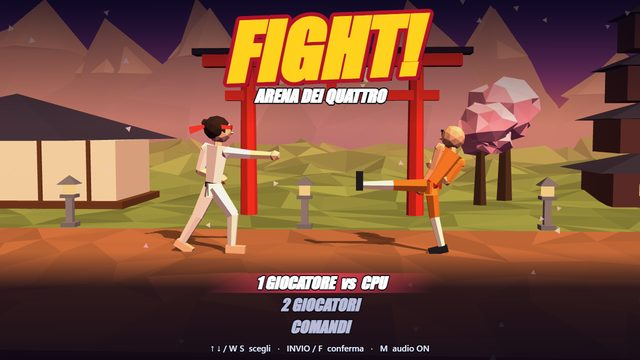
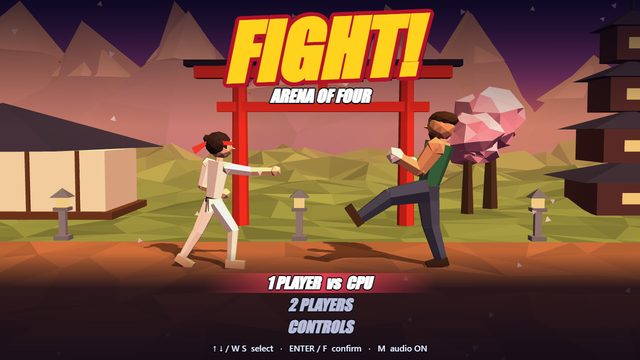
Translate Fight! to English
Menus, character select, controls screen, HUD, banners, special move
names and results are now in English. Adds title/description meta and
updates the home page card, thumbnail and README.

diff --git a/fight/index.html b/fight/index.html
@@ -1,9 +1,9 @@
 <!DOCTYPE html>
-<html lang="it">
+<html lang="en">
 <head>
 <meta charset="utf-8">
 <meta name="viewport" content="width=device-width, initial-scale=1">
-<title>FIGHT! — Arena dei Quattro</title>
+<title>Fight! – 3D fighting game, 1 or 2 players | Browser AI Games</title><meta name="description" content="Free 3D fighting game in your browser: four fighters, special moves and supers. Fight the CPU or a friend on the same keyboard.">
 <style>
   html, body { margin: 0; height: 100%; background: #05050a; overflow: hidden; }
   #wrap { position: absolute; left: 50%; top: 50%; transform: translate(-50%, -50%); }
@@ -13,7 +13,7 @@
 </head>
 <body>
 <div id="wrap"><canvas id="gl"></canvas><canvas id="c"></canvas></div>
-<div id="err">Impossibile avviare il gioco: il browser non supporta WebGL (grafica 3D). Prova con Chrome, Edge o Firefox aggiornati.</div>
+<div id="err">Unable to start the game: your browser doesn't support WebGL (3D graphics). Try an up-to-date Chrome, Edge or Firefox.</div>
 <script>
 /**
  * @license
@@ -201,44 +201,44 @@ const PZ = (f, n) => f.ch.P[n] || POSES[n] || f.ch.P.idle || POSES.idle;
 
 // ============================================================ personaggi
 const CHARS = [
-  { id: 'kaira', name: 'KAIRA', style: 'Equilibrata · Karate', stage: 0,
-    desc: 'Tecnica pulita e completa: pugni diretti, calcio frontale e un potente calcio circolare.',
+  { id: 'kaira', name: 'KAIRA', style: 'Balanced · Karate', stage: 0,
+    desc: 'Clean, complete technique: straight punches, a front kick and a powerful roundhouse kick.',
     hp: 100, walk: 4.3, jump: -19.5, spd: 1, dmg: 1, scale: 1, reach: 1, bulk: 1, bounce: .6, stats: [3, 3, 3, 3],
     col: { skin: '#f0c29a', top: '#f4f1ea', sleeve: '#f4f1ea', fore: '#f0c29a', pants: '#f4f1ea', shin: '#eae6dc', shoe: '#e0ae86', glove: '#f0c29a', belt: '#1a1a22', accent: '#d8342a', hair: '#2b1b17', glow: '#ff7b2e' },
     alt: { top: '#3a4a7a', sleeve: '#3a4a7a', pants: '#3a4a7a', shin: '#34436e', accent: '#ffd21e' },
     P: { idle: P(.08, 0, [.9, .9], [-.2, 1.6], [.55, -.75], [-.35, -.2], 0, .6) },
-    nm: { p: ['jabW', 'kizami'], p2: ['gyakuW', 'gyaku'], k: ['maeW', 'mae'], khb: [15, -138, 124, -72], h: ['sideW', 'side'], hhb: [15, -152, 150, -95] }, hName: 'Yoko-geri', hLabel: 'calcio laterale',
+    nm: { p: ['jabW', 'kizami'], p2: ['gyakuW', 'gyaku'], k: ['maeW', 'mae'], khb: [15, -138, 124, -72], h: ['sideW', 'side'], hhb: [15, -152, 150, -95] }, hName: 'Yoko-geri', hLabel: 'side kick',
     demo: ['idle', 'kizami', 'gyaku', 'idle', 'maeW', 'mae', 'idle', 'sideW', 'side', 'side', 'sideW', 'idle', 'roundW', 'round', 'roundW', 'idle'],
     ai: { nR: 230, dR: 140, supR: 150, combo: 'n', aa: 'd' } },
-  { id: 'jin', name: 'JIN', style: 'Veloce · Kung Fu', stage: 3,
-    desc: 'Rapidissimo ma fragile: raffiche di pugni a catena, calcio laterale e calcio volante.',
+  { id: 'jin', name: 'JIN', style: 'Fast · Kung Fu', stage: 3,
+    desc: 'Lightning fast but fragile: chain-punch flurries, a side kick and a flying kick.',
     hp: 86, walk: 5.9, jump: -20.5, spd: .8, dmg: .85, scale: .97, reach: .97, bulk: .92, bounce: .3, stats: [2, 5, 2, 3],
     col: { skin: '#d9a57c', top: '#e8862a', sleeve: '#e8862a', sleeveF: '#d9a57c', fore: '#d9a57c', pants: '#c96a1e', shin: '#efe9da', shoe: '#1a1a22', glove: '#d9a57c', belt: '#a8231c', accent: '#a8231c', hair: '#1a1410', glow: '#ffb02e' },
     alt: { top: '#5a6a7a', sleeve: '#5a6a7a', pants: '#3f4c5a', belt: '#e8c23a' },
     P: { idle: P(-.02, 0, [1.0, .6], [.5, 1.3], [.35, -.35], [-.15, -.55], 0, .75) },
-    nm: { p: ['jabW', 'wcA'], p2: ['wcA', 'wcB'], k: ['maeW', 'mae'], khb: [15, -138, 122, -72], h: ['sideW', 'side'], hhb: [15, -150, 146, -92], hsu: 9 }, hName: 'Calcio laterale', hLabel: 'calcio laterale',
+    nm: { p: ['jabW', 'wcA'], p2: ['wcA', 'wcB'], k: ['maeW', 'mae'], khb: [15, -138, 122, -72], h: ['sideW', 'side'], hhb: [15, -150, 146, -92], hsu: 9 }, hName: 'Side Kick', hLabel: 'side kick',
     demo: ['idle', 'wcA', 'wcB', 'wcA', 'wcB', 'idle', 'sideW', 'side', 'sideW', 'idle', 'jKick', 'idle'],
     ai: { nR: 110, dR: 330, supR: 120, combo: 'n', aa: 'p' } },
-  { id: 'bruno', name: 'BRUNO', style: 'Potente · Lotta di strada', stage: 2,
-    desc: 'Lento ma devastante: tanta resistenza, ganci pesanti e una carica che assorbe un colpo.',
+  { id: 'bruno', name: 'BRUNO', style: 'Powerful · Street Brawl', stage: 2,
+    desc: 'Slow but devastating: huge stamina, heavy hooks and a charge that shrugs off a hit.',
     hp: 126, walk: 3.3, jump: -17.5, spd: 1.22, dmg: 1.32, scale: 1.14, reach: 1, bulk: 1.38, bounce: .2, stats: [5, 1, 5, 2],
     col: { skin: '#c98d62', top: '#2f6b45', sleeve: '#c98d62', fore: '#c98d62', pants: '#3a3f55', shin: '#3a3f55', shoe: '#3d2616', glove: '#e8e2d4', belt: '#5a3a22', accent: '#ffc531', hair: '#3a2414', glow: '#ffb52e' },
     alt: { top: '#8a2a2a', pants: '#2a2a30', shin: '#2a2a30' },
     P: { idle: P(.26, 0, [.75, 1.5], [.45, 1.7], [.6, -.85], [-.4, -.3], 0, .35) },
-    nm: { p: ['hookW', 'hook'], p2: ['overW', 'over'], k: ['teepW', 'teep'], khb: [15, -128, 120, -62], kkb: 11, h: ['kneeW', 'knee'], hhb: [10, -160, 84, -82], hsu: 8, hstep: 6, hkb: 7, hdmg: 11 }, hName: 'Ginocchiata', hLabel: 'ginocchiata',
+    nm: { p: ['hookW', 'hook'], p2: ['overW', 'over'], k: ['teepW', 'teep'], khb: [15, -128, 120, -62], kkb: 11, h: ['kneeW', 'knee'], hhb: [10, -160, 84, -82], hsu: 8, hstep: 6, hkb: 7, hdmg: 11 }, hName: 'Knee Strike', hLabel: 'knee strike',
     demo: ['idle', 'hookW', 'hook', 'overW', 'over', 'idle', 'teepW', 'teep', 'idle', 'kneeW', 'knee', 'idle', 'slamW', 'slam', 'idle'],
     ai: { nR: 125, dR: 340, supR: 150, combo: 'd', aa: 'p' } },
-  { id: 'lyra', name: 'LYRA', style: 'Allungo · Taekwondo', stage: 1,
-    desc: 'Gambe lunghe e calci spettacolari: calcio alto, calcio ad ascia e calcio girato all\'indietro.',
+  { id: 'lyra', name: 'LYRA', style: 'Reach · Taekwondo', stage: 1,
+    desc: 'Long legs and spectacular kicks: high kick, axe kick and spinning back kick.',
     hp: 92, walk: 4.2, jump: -19.5, spd: 1.02, dmg: .95, scale: 1.02, reach: 1.06, bulk: .9, bounce: 2.2, stats: [3, 3, 2, 5],
     col: { skin: '#f3d2c0', top: '#f2f4f8', sleeve: '#f2f4f8', fore: '#f3d2c0', pants: '#23262e', shin: '#23262e', shoe: '#2a6fd0', glove: '#2a6fd0', belt: '#2a6fd0', accent: '#2a6fd0', hair: '#8a3a22', glow: '#5aa8ff' },
     alt: { top: '#d8342a', sleeve: '#d8342a', shoe: '#f2f4f8', glove: '#f2f4f8', belt: '#f2f4f8' },
     P: { idle: P(.02, 0, [.45, 1.3], [.1, 1.7], [.32, -.42], [-.3, -.35], 0, .95) },
-    nm: { p: ['jabW', 'jab'], p2: ['crossW', 'cross'], k: ['roundW', 'round'], khb: [15, -188, 138, -122], h: ['sideHW', 'sideH'], hhb: [15, -200, 152, -122] }, hName: 'Yeop-chagi', hLabel: 'calcio laterale',
+    nm: { p: ['jabW', 'jab'], p2: ['crossW', 'cross'], k: ['roundW', 'round'], khb: [15, -188, 138, -122], h: ['sideHW', 'sideH'], hhb: [15, -200, 152, -122] }, hName: 'Yeop-chagi', hLabel: 'side kick',
     demo: ['idle', 'roundW', 'round', 'roundW', 'idle', 'axeUp', 'axeDown', 'idle', 'jab', 'cross', 'idle', 'sideHW', 'sideH', 'sideH', 'idle'],
     ai: { nR: 140, dR: 215, supR: 200, combo: 'd', aa: 'k' } }
 ];
-const STAT_NAMES = ['Potenza', 'Velocità', 'Resistenza', 'Allungo'];
+const STAT_NAMES = ['Power', 'Speed', 'Stamina', 'Reach'];
 
 function normals(ch) {
   const r = ch.reach, d = ch.dmg, n = ch.nm, f = x => Math.max(2, Math.round(x * ch.spd));
@@ -277,26 +277,26 @@ const SPECIALS = {
       on(f, t) { if (inAct(this, t)) f.vx = f.facing * 4.2; if (t >= this.su && (t - this.su) % 6 === 0 && t < this.su + this.ac) sfx('whoosh'); } }
   },
   jin: {
-    n: { name: 'Pugni a Catena', su: 5, ac: 18, rc: 12, multi: 5, hb: [10, -160, 100, -100], dmg: 3.2, hs: 14, bs: 9, kb: 1.5, chip: true, stop: 3,
+    n: { name: 'Chain Punches', su: 5, ac: 18, rc: 12, multi: 5, hb: [10, -160, 100, -100], dmg: 3.2, hs: 14, bs: 9, kb: 1.5, chip: true, stop: 3,
       on(f, t) { if (inAct(this, t)) { f.vx = f.facing * 3; if ((t - this.su) % 5 === 0) sfx('whoosh'); } } },
-    d: { name: 'Calcio Volante', su: 7, ac: 16, rc: 12, wind: 'crouch', pose: 'jKick', rec: 'jump', hb: [5, -112, 116, -18], dmg: 11, kd: true, launch: -9, kb: 9, rush: 260, chip: true,
+    d: { name: 'Flying Kick', su: 7, ac: 16, rc: 12, wind: 'crouch', pose: 'jKick', rec: 'jump', hb: [5, -112, 116, -18], dmg: 11, kd: true, launch: -9, kb: 9, rush: 260, chip: true,
       on(f, t) { if (t === this.su) { f.vy = -10.5; f.vx = f.facing * 13; dust(f.x, 5); sfx('jump'); } } },
-    sup: { name: 'CENTO PUGNI', sup: true, su: 6, ac: 38, rc: 22, multi: 4, hb: [10, -165, 104, -90], dmg: 2.6, hs: 14, bs: 9, kb: 1.5, chip: true, stop: 3,
+    sup: { name: 'HUNDRED FISTS', sup: true, su: 6, ac: 38, rc: 22, multi: 4, hb: [10, -165, 104, -90], dmg: 2.6, hs: 14, bs: 9, kb: 1.5, chip: true, stop: 3,
       fin: { t: 7, dmg: 12, kd: true, launch: -10, kb: 15, stop: 16, chip: true, sup: true },
       on(f, t) { if (inAct(this, t)) { f.vx = f.facing * 3.4; if ((t - this.su) % 4 === 0) sfx('whoosh'); } } }
   },
   bruno: {
-    n: { name: 'Martello', su: 16, ac: 4, rc: 24, wind: 'slamW', pose: 'slam', rec: 'slam', hb: [10, -195, 106, 0], dmg: 15, kd: true, launch: -6, kb: 4, chip: true,
+    n: { name: 'Hammer', su: 16, ac: 4, rc: 24, wind: 'slamW', pose: 'slam', rec: 'slam', hb: [10, -195, 106, 0], dmg: 15, kd: true, launch: -6, kb: 4, chip: true,
       on(f, t) { if (t === this.su + 2) { game.shake = Math.max(game.shake, 7); dust(f.x + f.facing * 70, 8); sfx('quake'); } } },
-    d: { name: 'Carica di Spalla', su: 11, ac: 22, rc: 18, wind: 'crouch', pose: 'dash', rec: 'dash', hb: [0, -150, 78, -30], dmg: 15, kd: true, launch: -10, kb: 10, armor: 1, rush: 270, chip: true,
+    d: { name: 'Shoulder Charge', su: 11, ac: 22, rc: 18, wind: 'crouch', pose: 'dash', rec: 'dash', hb: [0, -150, 78, -30], dmg: 15, kd: true, launch: -10, kb: 10, armor: 1, rush: 270, chip: true,
       on(f, t) { if (inAct(this, t)) { f.vx = f.facing * 11.5; if (t % 3 === 0) dust(f.x - f.facing * 30, 2); } } },
-    sup: { name: 'DEMOLITORE', sup: true, su: 14, ac: 6, rc: 34, wind: 'upperW', pose: 'upper', rec: 'upper', hb: [5, -215, 112, -40], dmg: 34, kd: true, launch: -21, kb: 5, armor: 2, stop: 20, chip: true,
+    sup: { name: 'WRECKING BALL', sup: true, su: 14, ac: 6, rc: 34, wind: 'upperW', pose: 'upper', rec: 'upper', hb: [5, -215, 112, -40], dmg: 34, kd: true, launch: -21, kb: 5, armor: 2, stop: 20, chip: true,
       on(f, t) { if (t >= 5 && t < this.su) f.vx = f.facing * 9; if (t === this.su) { f.vy = -7; dust(f.x, 8); } } }
   },
   lyra: {
-    n: { name: 'Calcio ad Ascia', su: 14, ac: 5, rc: 20, wind: 'axeUp', pose: 'axeDown', rec: 'axeDown', hb: [20, -205, 126, -30], dmg: 12, kd: true, launch: -5, kb: 4, chip: true,
+    n: { name: 'Axe Kick', su: 14, ac: 5, rc: 20, wind: 'axeUp', pose: 'axeDown', rec: 'axeDown', hb: [20, -205, 126, -30], dmg: 12, kd: true, launch: -5, kb: 4, chip: true,
       on(f, t) { if (t === this.su + 3) dust(f.x + f.facing * 80, 5); } },
-    d: { name: 'Calcio Girato', su: 12, ac: 5, rc: 20, wind: 'spinW', pose: 'backKick', rec: 'spinEnd', hb: [10, -142, 140, -78], dmg: 13, kd: true, launch: -8, kb: 13, rush: 90, chip: true,
+    d: { name: 'Spinning Back Kick', su: 12, ac: 5, rc: 20, wind: 'spinW', pose: 'backKick', rec: 'spinEnd', hb: [10, -142, 140, -78], dmg: 13, kd: true, launch: -8, kb: 13, rush: 90, chip: true,
       on(f, t) { if (t >= 3 && t < this.su) f.vx = f.facing * 6; } },
     sup: { name: 'TORNADO', sup: true, su: 8, ac: 42, rc: 24, multi: 14, wind: 'roundW', pose: 'tornado', rec: 'idle', hb: [10, -188, 136, -80], dmg: 9, hs: 20, bs: 12, kb: 3, chip: true, stop: 6,
       fin: { t: 14, dmg: 12, kd: true, launch: -12, kb: 12, stop: 16, chip: true, sup: true },
@@ -315,10 +315,10 @@ for (const ch of CHARS) {
 }
 
 const DIFFS = [
-  { name: 'FACILE', desc: 'La CPU reagisce lentamente, para poco e usa poche tecniche speciali.', col: '#6fe07a', react: 26, block: .12, aggro: .45, special: .25, combo: .05, antiAir: .1, sup: .25 },
-  { name: 'NORMALE', desc: 'Un avversario onesto: para, contrattacca e usa le tecniche speciali.', col: '#ffd84a', react: 15, block: .4, aggro: .7, special: .5, combo: .35, antiAir: .4, sup: .6 },
-  { name: 'DIFFICILE', desc: 'Riflessi rapidi, combinazioni frequenti e buona difesa.', col: '#ff8a3a', react: 8, block: .66, aggro: .85, special: .7, combo: .7, antiAir: .7, sup: .85 },
-  { name: 'INCUBO', desc: 'Reazioni quasi istantanee. Punisce ogni errore. Buona fortuna.', col: '#ff3b5c', react: 4, block: .88, aggro: .95, special: .85, combo: .95, antiAir: .92, sup: 1 }
+  { name: 'EASY', desc: 'The CPU reacts slowly, rarely blocks and uses few special moves.', col: '#6fe07a', react: 26, block: .12, aggro: .45, special: .25, combo: .05, antiAir: .1, sup: .25 },
+  { name: 'NORMAL', desc: 'A fair opponent: blocks, counters and uses special moves.', col: '#ffd84a', react: 15, block: .4, aggro: .7, special: .5, combo: .35, antiAir: .4, sup: .6 },
+  { name: 'HARD', desc: 'Quick reflexes, frequent combos and solid defence.', col: '#ff8a3a', react: 8, block: .66, aggro: .85, special: .7, combo: .7, antiAir: .7, sup: .85 },
+  { name: 'NIGHTMARE', desc: 'Near-instant reactions. Punishes every mistake. Good luck.', col: '#ff3b5c', react: 4, block: .88, aggro: .95, special: .85, combo: .95, antiAir: .92, sup: 1 }
 ];
 
 // ============================================================ stato di gioco
@@ -729,19 +729,19 @@ function fightTick() {
     } else if (g.timer <= 0) {
       const r0 = a.hp / a.ch.hp, r1 = b.hp / b.ch.hp;
       g.phase = 'ko'; g.pt = 0; g.winner = Math.abs(r0 - r1) < .001 ? -1 : r0 > r1 ? 0 : 1;
-      banner('TEMPO!', '', '#ffd84a'); sfx('bell');
+      banner('TIME!', '', '#ffd84a'); sfx('bell');
     }
   } else if (g.phase === 'intro') {
-    if (g.pt === 1) banner(g.wins[0] === 1 && g.wins[1] === 1 ? 'ROUND FINALE' : 'ROUND ' + g.round, '', '#ffd84a');
-    if (g.pt === 68) { banner('COMBATTI!', '', '#ffffff'); sfx('bell'); }
+    if (g.pt === 1) banner(g.wins[0] === 1 && g.wins[1] === 1 ? 'FINAL ROUND' : 'ROUND ' + g.round, '', '#ffd84a');
+    if (g.pt === 68) { banner('FIGHT!', '', '#ffffff'); sfx('bell'); }
     if (g.pt >= 86) g.phase = 'fight';
   } else if (g.phase === 'ko') {
     if (g.pt === 80) {
-      if (g.winner < 0) banner('PAREGGIO', 'Il round si ripete', '#cfd3ff');
+      if (g.winner < 0) banner('DRAW', 'The round will be replayed', '#cfd3ff');
       else {
         const w = F[g.winner]; g.wins[g.winner]++;
         if (w.state === 'idle' || w.state === 'crouch') setState(w, 'win');
-        banner(w.ch.name + ' VINCE', w.hp >= w.ch.hp ? 'PERFECT!' : '', w.ch.col.glow); sfx('ok');
+        banner(w.ch.name + ' WINS', w.hp >= w.ch.hp ? 'PERFECT!' : '', w.ch.col.glow); sfx('ok');
       }
     }
     if (g.pt >= 205) {
@@ -953,7 +953,7 @@ function stageKit(g, seed) {
 }
 const X0 = -1100, X1 = WORLD + 1100;
 const STAGES = [
-  { name: 'Dojo del Tramonto', amb: 'petals',
+  { name: 'Sunset Dojo', amb: 'petals',
     env: { sky: ['#2a1650', '#8a3a70', '#f0704a', '#ffc878'], fog: ['#e08a6a', 1500, 5200], hemi: ['#ffc8a0', '#5a3050', .8], sun: ['#ffd8b0', 1.0, [500, 700, 800]] },
     build(g) {
       const K = stageKit(g, 11), R = K.R;
@@ -981,7 +981,7 @@ const STAGES = [
       for (let i = 0; i < 9; i++) K.peak(X0 - 900 + i * 620 + R() * 200, -3300 - R() * 600, 600 + R() * 350, 600 + R() * 500, i % 2 ? '#6a4a8a' : '#5a3f7a', '#f6dfe6');
       K.disc(330, '#ffe6ac', 820, 420, -4600, 12);
     } },
-  { name: 'Tetti della Città', amb: 'rain',
+  { name: 'City Rooftops', amb: 'rain',
     env: { sky: ['#05061a', '#141040', '#3a1a5c', '#7a2a70'], fog: ['#2a1a54', 1400, 5200], hemi: ['#a8b4f0', '#3a3058', 1.0], sun: ['#dfe6ff', .95, [-500, 800, 700]] },
     build(g) {
       const K = stageKit(g, 23), R = K.R;
@@ -1006,7 +1006,7 @@ const STAGES = [
       K.sign('HOTEL', '#ff4fa8', 300, 330, -540, 300, 110); K.sign('BAR', '#4fe8ff', 1350, 250, -520, 200, 90); K.sign('道場', '#ffe14a', 2050, 420, -700, 260, 120);
       K.disc(150, '#e8f4ff', 1240, 760, -3600, 14); K.disc(34, '#bcd4e8', 1200, 790, -3590, 8); K.disc(22, '#bcd4e8', 1300, 720, -3590, 8);
     } },
-  { name: 'Porto al Crepuscolo', amb: null,
+  { name: 'Twilight Harbour', amb: null,
     env: { sky: ['#1a2a50', '#3a5a80', '#e08a60', '#ffd090'], fog: ['#d09a78', 1700, 6000], hemi: ['#ffd0a8', '#40506a', .85], sun: ['#ffe0b8', 1.0, [600, 650, 800]] },
     build(g) {
       const K = stageKit(g, 37), R = K.R;
@@ -1032,7 +1032,7 @@ const STAGES = [
       for (let i = 0; i < 7; i++) K.peak(X0 - 800 + i * 700 + R() * 300, -4600 - R() * 600, 700 + R() * 400, 380 + R() * 300, '#3a4a6a');
       K.disc(260, '#ffcf90', 1500, 260, -5600, 12);
     } },
-  { name: 'Tempio tra le Nevi', amb: 'snow',
+  { name: 'Snowbound Temple', amb: 'snow',
     env: { sky: ['#4a78bc', '#8ab0dc', '#d8e6f6', '#ffffff'], fog: ['#dfe8f5', 1500, 5200], hemi: ['#eef4ff', '#7a8aa8', .68], sun: ['#fff4e0', .62, [-450, 800, 700]] },
     build(g) {
       const K = stageKit(g, 53), R = K.R;
@@ -1198,7 +1198,7 @@ function hpBar(f, right) {
   ctx.fillStyle = 'rgba(255,255,255,.25)'; ctx.fillRect(x0, y + 2, w, 5);
   ctx.strokeStyle = '#f2f2ff'; ctx.lineWidth = 2.5; ctx.strokeRect(x0 - 1, y - 1, w + 2, h + 2);
   ctx.restore();
-  const label = f.ch.name + (right && game.mode === 1 ? '  · CPU ' + DIFFS[game.diff].name : right ? '  · G2' : '  · G1');
+  const label = f.ch.name + (right && game.mode === 1 ? '  · CPU ' + DIFFS[game.diff].name : right ? '  · P2' : '  · P1');
   txt(label, right ? 1212 : 68, 88, 26, '#fff', right ? 'right' : 'left', { stroke: '#0a0a14' });
   for (let i = 0; i < 2; i++) {
     const px = right ? 716 + i * 30 : 564 - i * 30, on = game.wins[f.idx] > i;
@@ -1209,11 +1209,11 @@ function hpBar(f, right) {
   const mr = f.meter / 100, col = f.ch.col.glow;
   ctx.fillStyle = full && (game.T >> 2) % 2 ? '#ffffff' : col; ctx.fillRect(right ? mx + mw * (1 - mr) : mx, my, mw * mr, 14);
   ctx.strokeStyle = '#f2f2ff'; ctx.lineWidth = 2; ctx.strokeRect(mx - 1, my - 1, mw + 2, 16);
-  txt(full ? 'SUPER PRONTA!' + (right ? (game.mode === 2 ? '  J + K + L' : '') : '  F + G + H') : 'SUPER', right ? mx + mw : mx, my - 16, 17, full ? '#fff' : '#c8cbe8', right ? 'right' : 'left', { stroke: '#0a0a14' });
+  txt(full ? 'SUPER READY!' + (right ? (game.mode === 2 ? '  J + K + L' : '') : '  F + G + H') : 'SUPER', right ? mx + mw : mx, my - 16, 17, full ? '#fff' : '#c8cbe8', right ? 'right' : 'left', { stroke: '#0a0a14' });
   if (f.comboT > 0 && f.combo > 1) {
     const k = 1 + Math.max(0, (f.comboT - 75) / 10) * .5, cx = right ? 1130 : 150;
     ctx.save(); ctx.translate(cx, 190); ctx.scale(k, k); ctx.globalAlpha = Math.min(1, f.comboT / 15);
-    txt(String(f.combo), 0, 0, 78, '#ffd21e', 'center', { stroke: '#0a0a14' }); txt('COLPI!', 0, 50, 28, '#fff', 'center', { stroke: '#0a0a14' });
+    txt(String(f.combo), 0, 0, 78, '#ffd21e', 'center', { stroke: '#0a0a14' }); txt('HITS!', 0, 50, 28, '#fff', 'center', { stroke: '#0a0a14' });
     ctx.restore();
   }
 }
@@ -1225,13 +1225,13 @@ function drawHUD() {
   ctx.strokeStyle = '#f2f2ff'; ctx.lineWidth = 2.5; ctx.stroke();
   txt(String(sec).padStart(2, '0'), 638, 60, 54, sec <= 10 ? '#ff4a3a' : '#fff', 'center');
   if (g.phase === 'intro' && g.round === 1 && g.wins[0] + g.wins[1] === 0) {
-    const t = g.mode === 1 ? 'A / D muovi  ·  W salta  ·  S giù  ·  tieni INDIETRO per parare' : 'G1 si muove con WASD  ·  G2 con le frecce  ·  tieni INDIETRO per parare';
+    const t = g.mode === 1 ? 'A / D move  ·  W jump  ·  S crouch  ·  hold BACK to block' : 'P1 moves with WASD  ·  P2 with the arrow keys  ·  hold BACK to block';
     txt(t, W / 2, 598, 20, '#fff', 'center', { body: true, stroke: '#0a0a14', sw: 4 });
   }
   const lg = { body: true, stroke: '#0a0a14', sw: 4 };
-  const keyLine = (f, a, b, c) => `${a} pugno · ${b} calcio · ${c} ${f.ch.hLabel}   ·   ${a}+${b} speciale 1 · ${b}+${c} speciale 2 · ${a}+${b}+${c} super`;
+  const keyLine = (f, a, b, c) => `${a} punch · ${b} kick · ${c} ${f.ch.hLabel}   ·   ${a}+${b} special 1 · ${b}+${c} special 2 · ${a}+${b}+${c} super`;
   if (g.mode === 1) txt(keyLine(g.f[0], 'F', 'G', 'H'), W / 2, 648, 15, '#fff', 'center', lg);
-  else { txt('G1   ' + keyLine(g.f[0], 'F', 'G', 'H'), W / 2, 630, 14, '#ffd21e', 'center', lg); txt('G2   ' + keyLine(g.f[1], 'J', 'K', 'L'), W / 2, 650, 14, '#3fe8ff', 'center', lg); }
+  else { txt('P1   ' + keyLine(g.f[0], 'F', 'G', 'H'), W / 2, 630, 14, '#ffd21e', 'center', lg); txt('P2   ' + keyLine(g.f[1], 'J', 'K', 'L'), W / 2, 650, 14, '#3fe8ff', 'center', lg); }
   if (g.banner) {
     const b = g.banner, k = 1 + Math.max(0, 1 - b.t / 9) * 1.6, a = Math.min(1, (b.max - b.t) / 14);
     ctx.save(); ctx.translate(W / 2, 300); ctx.scale(k, k); ctx.globalAlpha = a;
@@ -1256,8 +1256,8 @@ function renderFight() {
   drawHUD();
   if (g.paused) {
     dim(.72);
-    txt('PAUSA', W / 2, 250, 110, '#fff', 'center', { stroke: '#0a0a14' });
-    ['RIPRENDI', 'MENU PRINCIPALE'].forEach((s, i) => menuItem(s, W / 2, 380 + i * 70, g.pmenu === i, 44));
+    txt('PAUSED', W / 2, 250, 110, '#fff', 'center', { stroke: '#0a0a14' });
+    ['RESUME', 'MAIN MENU'].forEach((s, i) => menuItem(s, W / 2, 380 + i * 70, g.pmenu === i, 44));
   }
 }
 
@@ -1273,7 +1273,7 @@ function menuItem(s, x, y, on, size) {
 function demoPose(f, seq, period, off) {
   poseTo(f, PZ(f, seq[((game.T + (off || 0)) / period | 0) % seq.length]), .25);
 }
-const TITLE_ITEMS = ['1 GIOCATORE  vs  CPU', '2 GIOCATORI', 'COMANDI'];
+const TITLE_ITEMS = ['1 PLAYER  vs  CPU', '2 PLAYERS', 'CONTROLS'];
 function titleDemo() {
   const g = game;
   if (!g.titleF) { const a = Math.random() * 4 | 0; g.titleF = [mkFighter(a, 0, WORLD / 2 - 150), mkFighter((a + 1 + (Math.random() * 3 | 0)) % 4, 1, WORLD / 2 + 150)]; }
@@ -1299,9 +1299,9 @@ function titleRender() {
   txt('FIGHT!', 7, 7, 150, '#1a0520', 'center');
   txt('FIGHT!', 0, 0, 150, '#ffd21e', 'center', { stroke: '#b3122a', sw: 16 });
   ctx.restore();
-  txt('ARENA DEI QUATTRO', W / 2, 192, 34, '#fff', 'center', { stroke: '#0a0a14' });
+  txt('ARENA OF FOUR', W / 2, 192, 34, '#fff', 'center', { stroke: '#0a0a14' });
   TITLE_ITEMS.forEach((s, i) => menuItem(s, W / 2, 566 + i * 44, g.menu === i, 32));
-  txt('↑ ↓ / W S  scegli   ·   INVIO / F  conferma   ·   M  audio ' + (mute ? 'OFF' : 'ON'), W / 2, 698, 17, '#e8e8ff', 'center', { body: true, stroke: '#0a0a14', sw: 4 });
+  txt('↑ ↓ / W S  select   ·   ENTER / F  confirm   ·   M  audio ' + (mute ? 'OFF' : 'ON'), W / 2, 698, 17, '#e8e8ff', 'center', { body: true, stroke: '#0a0a14', sw: 4 });
 }
 
 function diffTick() {
@@ -1314,21 +1314,21 @@ function diffTick() {
 function diffRender() {
   const g = game;
   dim(.72);
-  txt('DIFFICOLTÀ', W / 2, 110, 90, '#fff', 'center', { stroke: '#0a0a14' });
+  txt('DIFFICULTY', W / 2, 110, 90, '#fff', 'center', { stroke: '#0a0a14' });
   DIFFS.forEach((d, i) => {
     const y = 240 + i * 82, on = g.diff === i;
     menuItem(d.name, W / 2, y, on, 52);
     for (let k = 0; k <= i; k++) { ctx.fillStyle = on ? d.col : '#4a4d6a'; ctx.beginPath(); ctx.arc(W / 2 + 250 + k * 26, y, 9, 0, TAU); ctx.fill(); }
   });
   txt(DIFFS[g.diff].desc, W / 2, 590, 24, DIFFS[g.diff].col, 'center', { body: true, stroke: '#0a0a14', sw: 5 });
-  txt('INVIO / F  conferma   ·   ESC  indietro', W / 2, 690, 18, '#c8cbe8', 'center', { body: true, stroke: '#0a0a14', sw: 4 });
+  txt('ENTER / F  confirm   ·   ESC  back', W / 2, 690, 18, '#c8cbe8', 'center', { body: true, stroke: '#0a0a14', sw: 4 });
 }
 
 function helpTick() { titleDemo(); if (navBack() || navOK()) { game.screen = 'title'; sfx('back'); } }
 function helpRender() {
   dim(.82);
-  txt('COMANDI', W / 2, 70, 70, '#fff', 'center', { stroke: '#0a0a14' });
-  const rows = [['', 'GIOCATORE 1', 'GIOCATORE 2'], ['Muovi', 'A / D', '← / →'], ['Salta', 'W', '↑'], ['Accovacciati', 'S', '↓'], ['Pugno', 'F', 'J'], ['Calcio', 'G', 'K'], ['Calcio laterale *', 'H', 'L'], ['Speciale 1', 'F + G', 'J + K'], ['Speciale 2', 'G + H', 'K + L'], ['Super (a barra piena)', 'F + G + H', 'J + K + L']];
+  txt('CONTROLS', W / 2, 70, 70, '#fff', 'center', { stroke: '#0a0a14' });
+  const rows = [['', 'PLAYER 1', 'PLAYER 2'], ['Move', 'A / D', '← / →'], ['Jump', 'W', '↑'], ['Crouch', 'S', '↓'], ['Punch', 'F', 'J'], ['Kick', 'G', 'K'], ['Side kick *', 'H', 'L'], ['Special 1', 'F + G', 'J + K'], ['Special 2', 'G + H', 'K + L'], ['Super (full meter)', 'F + G + H', 'J + K + L']];
   rows.forEach((r, i) => {
     const y = 146 + i * 38, head = i === 0;
     if (!head) { ctx.fillStyle = i % 2 ? 'rgba(255,255,255,.06)' : 'rgba(255,255,255,.02)'; ctx.fillRect(250, y - 18, 780, 36); }
@@ -1337,14 +1337,14 @@ function helpRender() {
     txt(r[2], 900, y, head ? 28 : 26, head ? '#3fe8ff' : '#fff', 'center', head ? { stroke: '#0a0a14' } : { body: true });
   });
   const tips = [
-    'PARATA — tieni premuto INDIETRO (lontano dall\'avversario) mentre vieni colpito.',
-    'TASTI INSIEME — premili nello stesso momento (va bene anche uno subito dopo l\'altro).   * Bruno: ginocchiata.',
-    'COMBINAZIONE — pugno due volte: diretto avanzato + diretto arretrato. Poi puoi chiudere con una speciale.',
-    'SUPER — funziona solo quando la barra in basso è piena: si carica colpendo e subendo.',
-    'In 1 giocatore funzionano entrambi i set di tasti.   INVIO / ESC = pausa   ·   M = audio.'
+    'BLOCK — hold BACK (away from your opponent) while you are being attacked.',
+    'BUTTON COMBOS — press them together (one right after the other works too).   * Bruno: knee strike.',
+    'COMBO — punch twice: lead jab + rear straight. Then finish with a special.',
+    'SUPER — only works when the bottom meter is full: it charges as you hit and get hit.',
+    'In 1-player mode both key sets work.   ENTER / ESC = pause   ·   M = audio.'
   ];
   tips.forEach((t, i) => txt(t, W / 2, 518 + i * 32, 19, i === 3 ? '#ffd21e' : '#e8e8ff', 'center', { body: true, stroke: '#0a0a14', sw: 4 }));
-  txt('ESC / INVIO  indietro', W / 2, 692, 18, '#c8cbe8', 'center', { body: true, stroke: '#0a0a14', sw: 4 });
+  txt('ESC / ENTER  back', W / 2, 692, 18, '#c8cbe8', 'center', { body: true, stroke: '#0a0a14', sw: 4 });
 }
 
 // ---- selezione personaggi
@@ -1387,8 +1387,8 @@ function selectRender() {
   const g = game, s = g.sel, T = g.T;
   const gr = ctx.createLinearGradient(0, 0, W, 0); gr.addColorStop(0, 'rgba(6,4,20,.88)'); gr.addColorStop(.3, 'rgba(6,4,20,.25)'); gr.addColorStop(.7, 'rgba(6,4,20,.25)'); gr.addColorStop(1, 'rgba(6,4,20,.88)');
   ctx.fillStyle = gr; ctx.fillRect(0, 0, W, H); ctx.fillStyle = 'rgba(6,4,20,.6)'; ctx.fillRect(0, 520, W, 200); ctx.fillRect(0, 0, W, 86);
-  txt('SCEGLI IL TUO LOTTATORE', W / 2, 46, 50, '#fff', 'center', { stroke: '#0a0a14' });
-  const cols = ['#ffd21e', '#3fe8ff'], labels = g.mode === 1 ? ['GIOCATORE', 'CPU · ' + DIFFS[g.diff].name] : ['GIOCATORE 1', 'GIOCATORE 2'];
+  txt('CHOOSE YOUR FIGHTER', W / 2, 46, 50, '#fff', 'center', { stroke: '#0a0a14' });
+  const cols = ['#ffd21e', '#3fe8ff'], labels = g.mode === 1 ? ['PLAYER', 'CPU · ' + DIFFS[g.diff].name] : ['PLAYER 1', 'PLAYER 2'];
   for (let i = 0; i < 2; i++) {
     const active = g.mode === 2 || (i === 0 ? true : s.done[0]);
     const ci = s.cur[i], cx = i ? 870 : 410, al = i ? 'right' : 'left', tx = i ? 1240 : 40;
@@ -1396,7 +1396,7 @@ function selectRender() {
     if (!active) { txt('?', cx, 330, 220, '#5a5d7a', 'center', { stroke: '#0a0a14' }); continue; }
     if (ci >= CHARS.length) {
       txt('?', cx, 330, 240, cols[i], 'center', { stroke: '#0a0a14' });
-      txt('CASUALE', tx, 160, 60, '#fff', al, { stroke: '#0a0a14' }); continue;
+      txt('RANDOM', tx, 160, 60, '#fff', al, { stroke: '#0a0a14' }); continue;
     }
     const ch = CHARS[ci];
     txt(ch.name, tx, 162, 68, '#fff', al, { stroke: '#0a0a14' });
@@ -1410,7 +1410,7 @@ function selectRender() {
     const kk = i === 0 ? ['H', 'F + G', 'G + H', 'F + G + H'] : g.mode === 2 ? ['L', 'J + K', 'K + L', 'J + K + L'] : null;
     [ch.hName, ch.sp.n.name, ch.sp.d.name, ch.sp.sup.name + ' (super)'].forEach((m, k) =>
       txt((kk ? kk[k] + '  —  ' : '') + m, sx, 386 + k * 26, 16, k === 3 ? '#ffd21e' : '#fff', 'left', { body: true, stroke: '#0a0a14', sw: 3 }));
-    if (s.done[i]) txt('PRONTO!', cx, 150, 54, cols[i], 'center', { stroke: '#0a0a14' });
+    if (s.done[i]) txt('READY!', cx, 150, 54, cols[i], 'center', { stroke: '#0a0a14' });
   }
   const n = CHARS.length + 1, tw = 124, gap = 14, x0 = W / 2 - (n * tw + (n - 1) * gap) / 2, ty = 548;
   for (let k = 0; k < n; k++) {
@@ -1418,17 +1418,17 @@ function selectRender() {
     if (ch && PORT[k]) ctx.drawImage(PORT[k], x, ty, tw, 124);
     else { ctx.fillStyle = '#2a2c44'; ctx.fillRect(x, ty, tw, 124); txt('?', x + tw / 2, ty + 56, 90, '#c8cbe8', 'center', { stroke: '#0a0a14' }); }
     ctx.lineWidth = 3; ctx.strokeStyle = '#0a0a14'; ctx.strokeRect(x, ty, tw, 124);
-    txt(ch ? ch.name : 'CASUALE', x + tw / 2, ty + 108, 22, '#fff', 'center', { stroke: '#0a0a14' });
+    txt(ch ? ch.name : 'RANDOM', x + tw / 2, ty + 108, 22, '#fff', 'center', { stroke: '#0a0a14' });
     for (let i = 0; i < 2; i++) {
       const active = g.mode === 2 || i === 0 || s.done[0];
       if (!active || s.cur[i] !== k) continue;
       const pulse = s.done[i] ? 0 : sin(T * .25) * 2, o = 5 + i * 5 + pulse;
       ctx.lineWidth = 4; ctx.strokeStyle = cols[i]; ctx.strokeRect(x - o, ty - o, tw + o * 2, 124 + o * 2);
-      txt(g.mode === 1 ? (i ? 'CPU' : 'G1') : 'G' + (i + 1), x + (i ? tw - 20 : 20), ty - 14 - o, 20, cols[i], 'center', { stroke: '#0a0a14' });
+      txt(g.mode === 1 ? (i ? 'CPU' : 'P1') : 'P' + (i + 1), x + (i ? tw - 20 : 20), ty - 14 - o, 20, cols[i], 'center', { stroke: '#0a0a14' });
     }
   }
-  const hint = g.mode === 1 ? (s.done[0] ? 'Scegli l\'avversario:  ← →  ·  INVIO / F conferma  ·  ESC indietro' : '← →  /  A D  scegli  ·  INVIO / F  conferma  ·  ESC  indietro')
-    : 'G1:  A / D  +  F          G2:  ← / →  +  J          ESC  indietro';
+  const hint = g.mode === 1 ? (s.done[0] ? 'Choose your opponent:  ← →  ·  ENTER / F confirm  ·  ESC back' : '← →  /  A D  select  ·  ENTER / F  confirm  ·  ESC  back')
+    : 'P1:  A / D  +  F          P2:  ← / →  +  J          ESC  back';
   txt(hint, W / 2, 702, 17, '#e8e8ff', 'center', { body: true, stroke: '#0a0a14', sw: 4 });
 }
 
@@ -1451,7 +1451,7 @@ function vsRender() {
 }
 
 // ---- risultato
-const RES_ITEMS = ['RIVINCITA', 'SELEZIONE PERSONAGGI', 'MENU PRINCIPALE'];
+const RES_ITEMS = ['REMATCH', 'CHARACTER SELECT', 'MAIN MENU'];
 function resultTick() {
   const g = game; g.resT++;
   for (const f of g.f) blendPose(f);
@@ -1470,7 +1470,7 @@ function resultRender() {
   drawAmbient(STAGES[g.stage].amb, g.T);
   const gr = ctx.createLinearGradient(0, 0, 0, H); gr.addColorStop(0, 'rgba(6,4,20,.8)'); gr.addColorStop(.4, 'rgba(6,4,20,.1)'); gr.addColorStop(.62, 'rgba(6,4,20,.3)'); gr.addColorStop(1, 'rgba(6,4,20,.85)');
   ctx.fillStyle = gr; ctx.fillRect(0, 0, W, H);
-  const youWin = g.mode === 1 ? (g.matchWinner === 0 ? 'HAI VINTO!' : 'HAI PERSO…') : 'GIOCATORE ' + (g.matchWinner + 1) + ' VINCE!';
+  const youWin = g.mode === 1 ? (g.matchWinner === 0 ? 'YOU WIN!' : 'YOU LOSE…') : 'PLAYER ' + (g.matchWinner + 1) + ' WINS!';
   txt(w.ch.name, W / 2, 86, 110, '#fff', 'center', { stroke: '#0a0a14', sw: 12 });
   txt(youWin + '   ' + g.wins[0] + ' — ' + g.wins[1], W / 2, 168, 44, g.mode === 1 && g.matchWinner === 1 ? '#ff5a6a' : '#ffd21e', 'center', { stroke: '#0a0a14' });
   RES_ITEMS.forEach((s, i) => menuItem(s, W / 2, 548 + i * 52, g.menu === i, 36));

diff --git a/index.html b/index.html
@@ -37,8 +37,8 @@ footer{text-align:center;color:#6c7a86;font-size:12px;padding:0 24px 40px}
   <div class="body"><div class="genre">RACING · ARCADE</div><h2>Dino Frenzy</h2><p>The great prehistoric race: ride your dinosaur past volcanoes and obstacles and cross the line first.</p>
   <div class="tags"><span>1–2 players</span><span>Keyboard · Gamepad</span><span>Touch</span><span>Italian UI</span></div><div class="play">Play →</div></div></a>
  <a class="card" href="fight/index.html" style="--c:#ff5a4f"><div class="thumb"><img src="thumbs/fight.jpg" alt="Fight!: two fighters in an arena" loading="lazy"></div>
-  <div class="body"><div class="genre">FIGHTING</div><h2>Fight!</h2><p>One-on-one 3D fights in the Arena of Four. Take on the CPU or a friend.</p>
-  <div class="tags"><span>1–2 players</span><span>Keyboard</span><span>Italian UI</span></div><div class="play">Play →</div></div></a>
+  <div class="body"><div class="genre">FIGHTING</div><h2>Fight!</h2><p>One-on-one 3D fights in the Arena of Four: four fighters, special moves and supers. Take on the CPU or a friend.</p>
+  <div class="tags"><span>1–2 players</span><span>Keyboard</span></div><div class="play">Play →</div></div></a>
  <a class="card" href="studio-zero/index.html" style="--c:#ffcf70"><div class="thumb"><img src="thumbs/studio.jpg" alt="Studio Zero: a giant kitchen seen from a tiny hero" loading="lazy"></div>
   <div class="body"><div class="genre">ACTION · 3D ADVENTURE</div><h2>Studio Zero</h2><p>You're a few centimetres tall and the kitchen has gone haywire: three control units, three gadgets and a breakfast to save.</p>
   <div class="tags"><span>1 player</span><span>Mouse + keyboard</span><span>Desktop</span></div><div class="play">Play →</div></div></a>

diff --git a/README.md b/README.md
@@ -12,7 +12,7 @@ Free browser games made with AI — racing, fighting and adventure. No download,
 | Studio Zero | 3D action adventure | 1 | [`studio-zero/`](studio-zero/) |
 | City Rush | Sprint racing | 1 | [`city-rush/`](city-rush/) |
 
-Dino Frenzy and Fight! currently have an Italian interface; the other games are in English.
+Dino Frenzy currently has an Italian interface; the other games are in English.
 
 ## Run locally
 Open `index.html` in a browser, or serve the folder: `python -m http.server 8000` → http://localhost:8000
